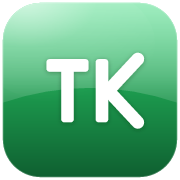
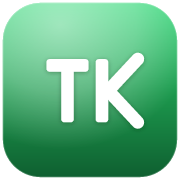
fix: โลโก้ TK — ไฮไลต์กระจกเงาเป็นวงรีมุมบนซ้าย (เว้าตามรูป)
เดิมทำเป็นแถบเว้าแนวนอนสมมาตร → เปลี่ยนเป็นวงรีไฮไลต์มุมบนซ้าย
(radial gradient) โค้งเว้าลงมุมขวาล่าง ตรงสไตล์ app icon ในรูป
sync generator · icon.svg · Logo.tsx + regenerate PNG

diff --git a/src/components/Logo.tsx b/src/components/Logo.tsx
@@ -22,14 +22,10 @@ export function Logo({ size = 40, className }: { size?: number; className?: stri
           <stop offset="0.5" stopColor="#1c9a4e" />
           <stop offset="1" stopColor="#0f5f30" />
         </linearGradient>
-        <linearGradient id="tk-gloss" x1="256" y1="8" x2="256" y2="292" gradientUnits="userSpaceOnUse">
-          <stop offset="0" stopColor="#ffffff" stopOpacity="0.5" />
-          <stop offset="0.72" stopColor="#ffffff" stopOpacity="0.26" />
-          <stop offset="1" stopColor="#ffffff" stopOpacity="0.12" />
-        </linearGradient>
-        <radialGradient id="tk-spot" cx="0.3" cy="0.16" r="0.85">
-          <stop offset="0" stopColor="#ffffff" stopOpacity="0.5" />
-          <stop offset="0.45" stopColor="#ffffff" stopOpacity="0.08" />
+        <radialGradient id="tk-gloss" cx="0.5" cy="0.5" r="0.5">
+          <stop offset="0" stopColor="#ffffff" stopOpacity="0.52" />
+          <stop offset="0.55" stopColor="#ffffff" stopOpacity="0.30" />
+          <stop offset="0.82" stopColor="#ffffff" stopOpacity="0.12" />
           <stop offset="1" stopColor="#ffffff" stopOpacity="0" />
         </radialGradient>
         <clipPath id="tk-clip">
@@ -38,8 +34,7 @@ export function Logo({ size = 40, className }: { size?: number; className?: stri
       </defs>
       <rect x="8" y="8" width="496" height="496" rx="108" fill="url(#tk-bg)" />
       <g clipPath="url(#tk-clip)">
-        <path d="M8 8 H504 V292 Q256 208 8 292 Z" fill="url(#tk-gloss)" />
-        <ellipse cx="180" cy="120" rx="260" ry="170" fill="url(#tk-spot)" />
+        <ellipse cx="172" cy="72" rx="392" ry="352" fill="url(#tk-gloss)" />
       </g>
       <rect x="9" y="9" width="494" height="494" rx="107" fill="none" stroke="#ffffff" strokeOpacity="0.28" strokeWidth="2" />
       {/* TK monogram */}
